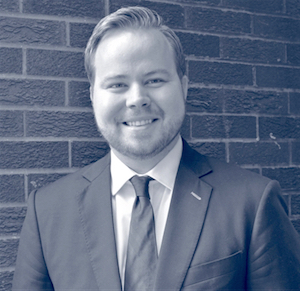
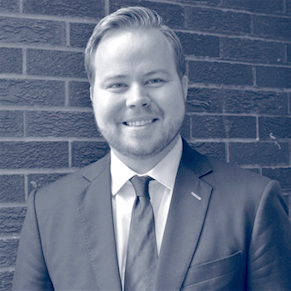
cleanup

diff --git a/about.html b/about.html
@@ -84,14 +84,14 @@
 <div class="member row flex">
   <div class="flex-hero col">
     <div class="hero-img">
-      <img class="circle" src="/assets/images/team/jj.jpg">
+      <img class="circle" src="/assets/images/team/jj_candid.jpg">
     </div>
   </div>
   <div class="flex-text col">
     <span class="name">JJ Hiew</span>
     <span class="role">Founder</span>
     <p class="text-muted">JJ is a full-stack JavaScript developer with over 10 years of experience as a CTO and solutions architect. He has worked on projects for clients such as IBM, GE and Castrol Wakefield. JJ graduated from UofT with a B.Sc in Computer Science. He’s obsessed with turning his love of delicious baked goods and technology into a billion dollar business.</p>
-  </div>    
+  </div>
 </div>
 <!-- /Item -->
 
@@ -107,7 +107,7 @@
     <span class="name">Trevor Zeyl</span>
     <span class="role">Advisor</span>
     <p class="text-muted">Trevor is a business lawyer with the global law firm Norton Rose Fulbright Canada LLP, where he specializes in corporate finance and M&amp;A. Trevor attended the University of Windsor and the London School of Economics where he attained his JD and LLM, respectively. When he’s not closing multi-million dollar deals he can be found sobbing at the latest Toronto Raptors loss.</p>
-  </div>    
+  </div>
 </div>
 <!-- /Item -->
 
@@ -123,7 +123,7 @@
     <span class="name">Ben Zelikovitz</span>
     <span class="role">Advisor</span>
     <p class="text-muted">Ben is a Director at Sitescout and has 10+ years of experience in Enterprise SaaS sales and operations. Prior to that, Ben was an Account Manager for Randstad Canada&#39;s technology recruiting division. Ben graduated from Wilfrid Laurier University with a B.A in Political Science. His heroes are Justin Bieber and Drake, in that order.</p>
-  </div>    
+  </div>
 </div>
 <!-- /Item -->
 
